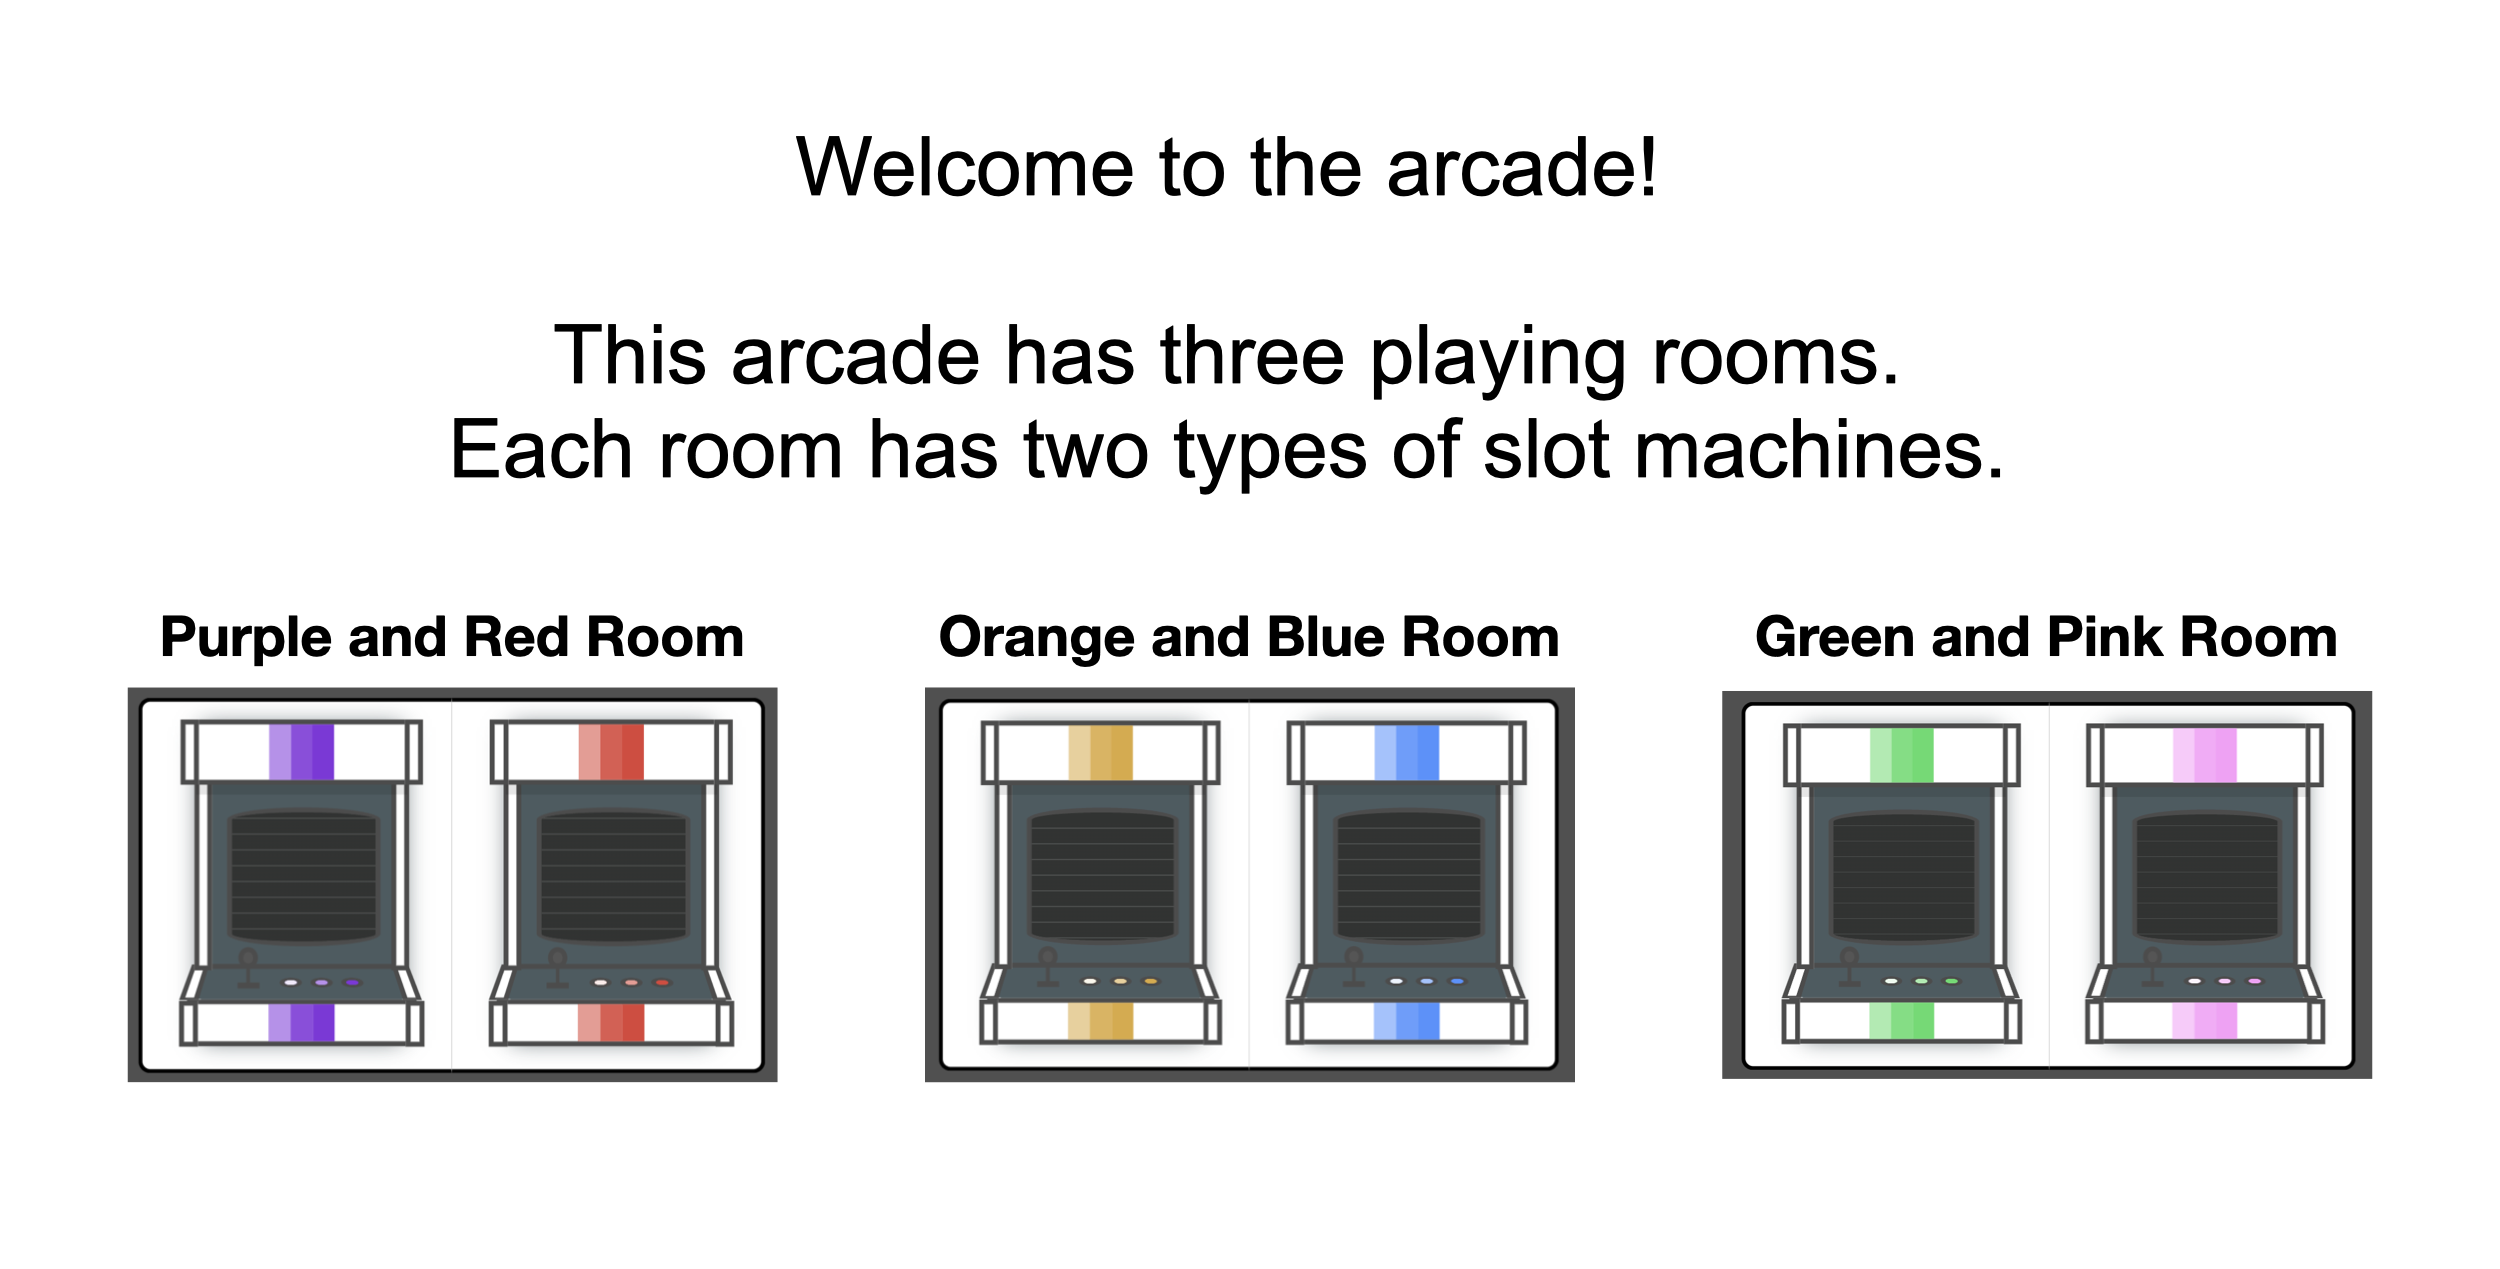
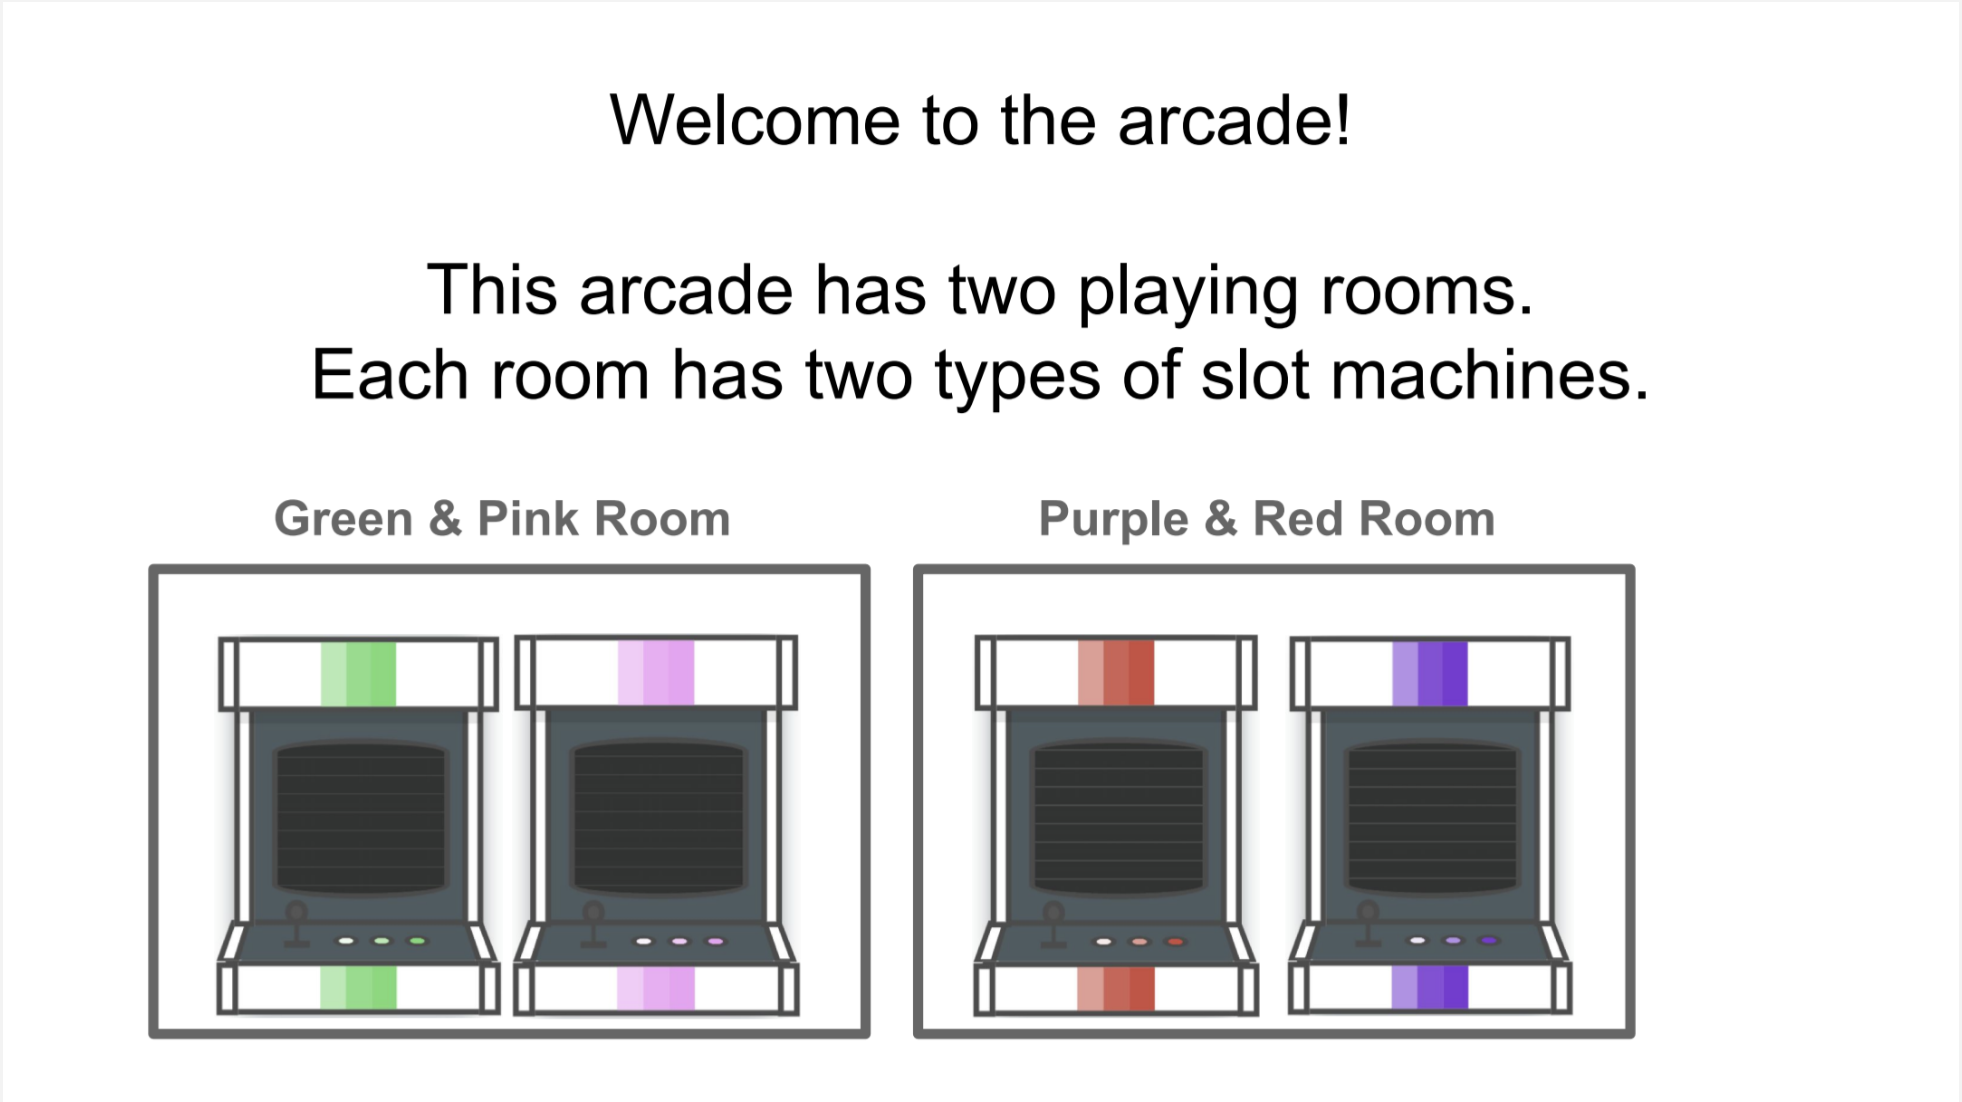
instructions

Changed region(s): [[0.0311, 0.4319, 0.9638, 0.9564], [0.1555, 0.216, 0.8394, 0.4011], [0.3109, 0.0617, 0.684, 0.1543]]

diff --git a/index.html b/index.html
@@ -93,7 +93,7 @@
   // Explicit knowledge instructions and task
   timeline = timeline.concat(explicit_instructions); // Ensure this is defined
   timeline = timeline.concat(explicit_knowledge);
-
+  timeline
   // Save participant block order in the data
   jsPsych.data.addProperties({
     block_order: participantBlockOrder
